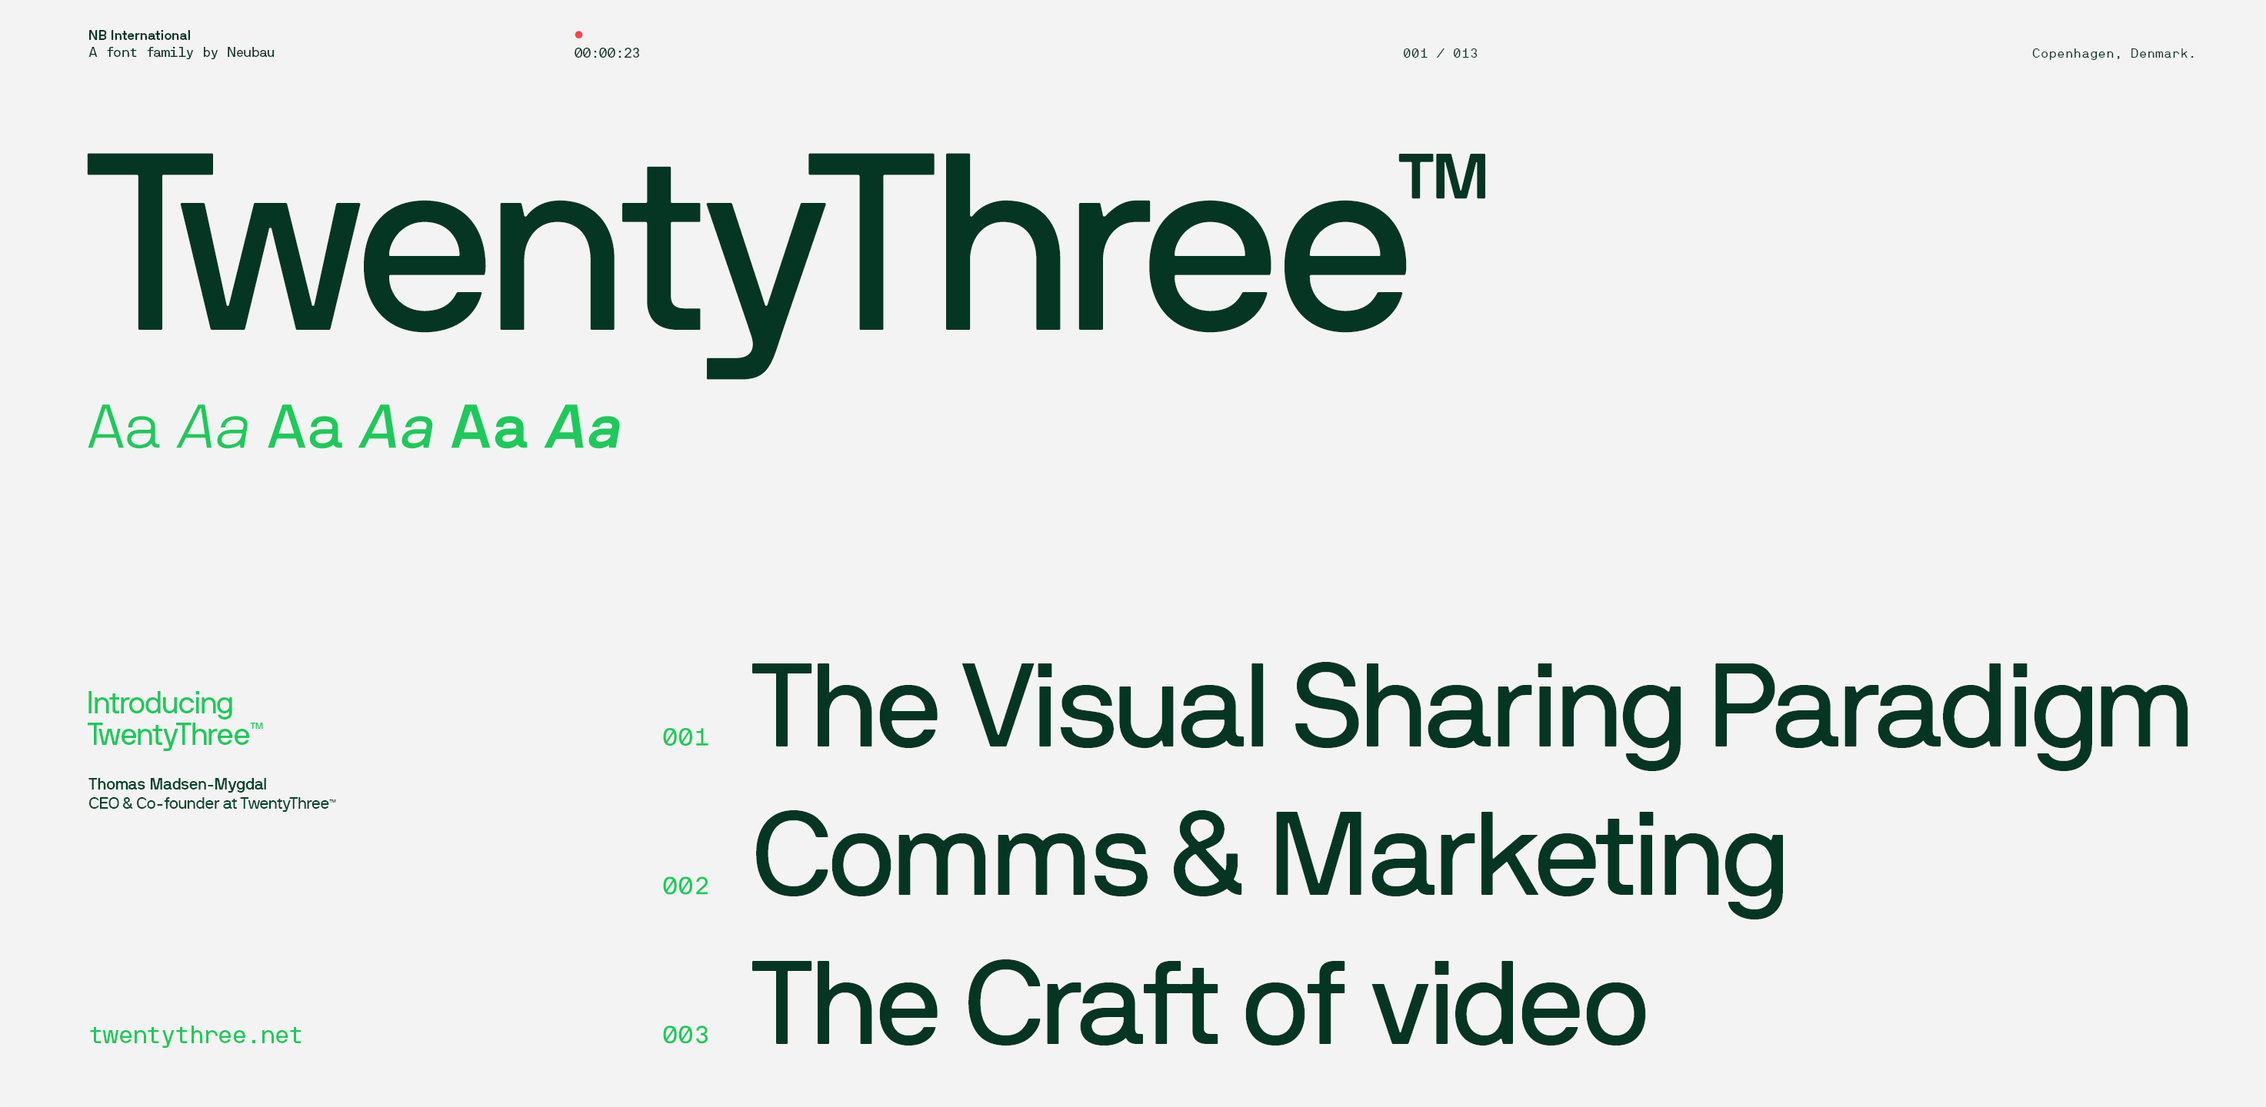
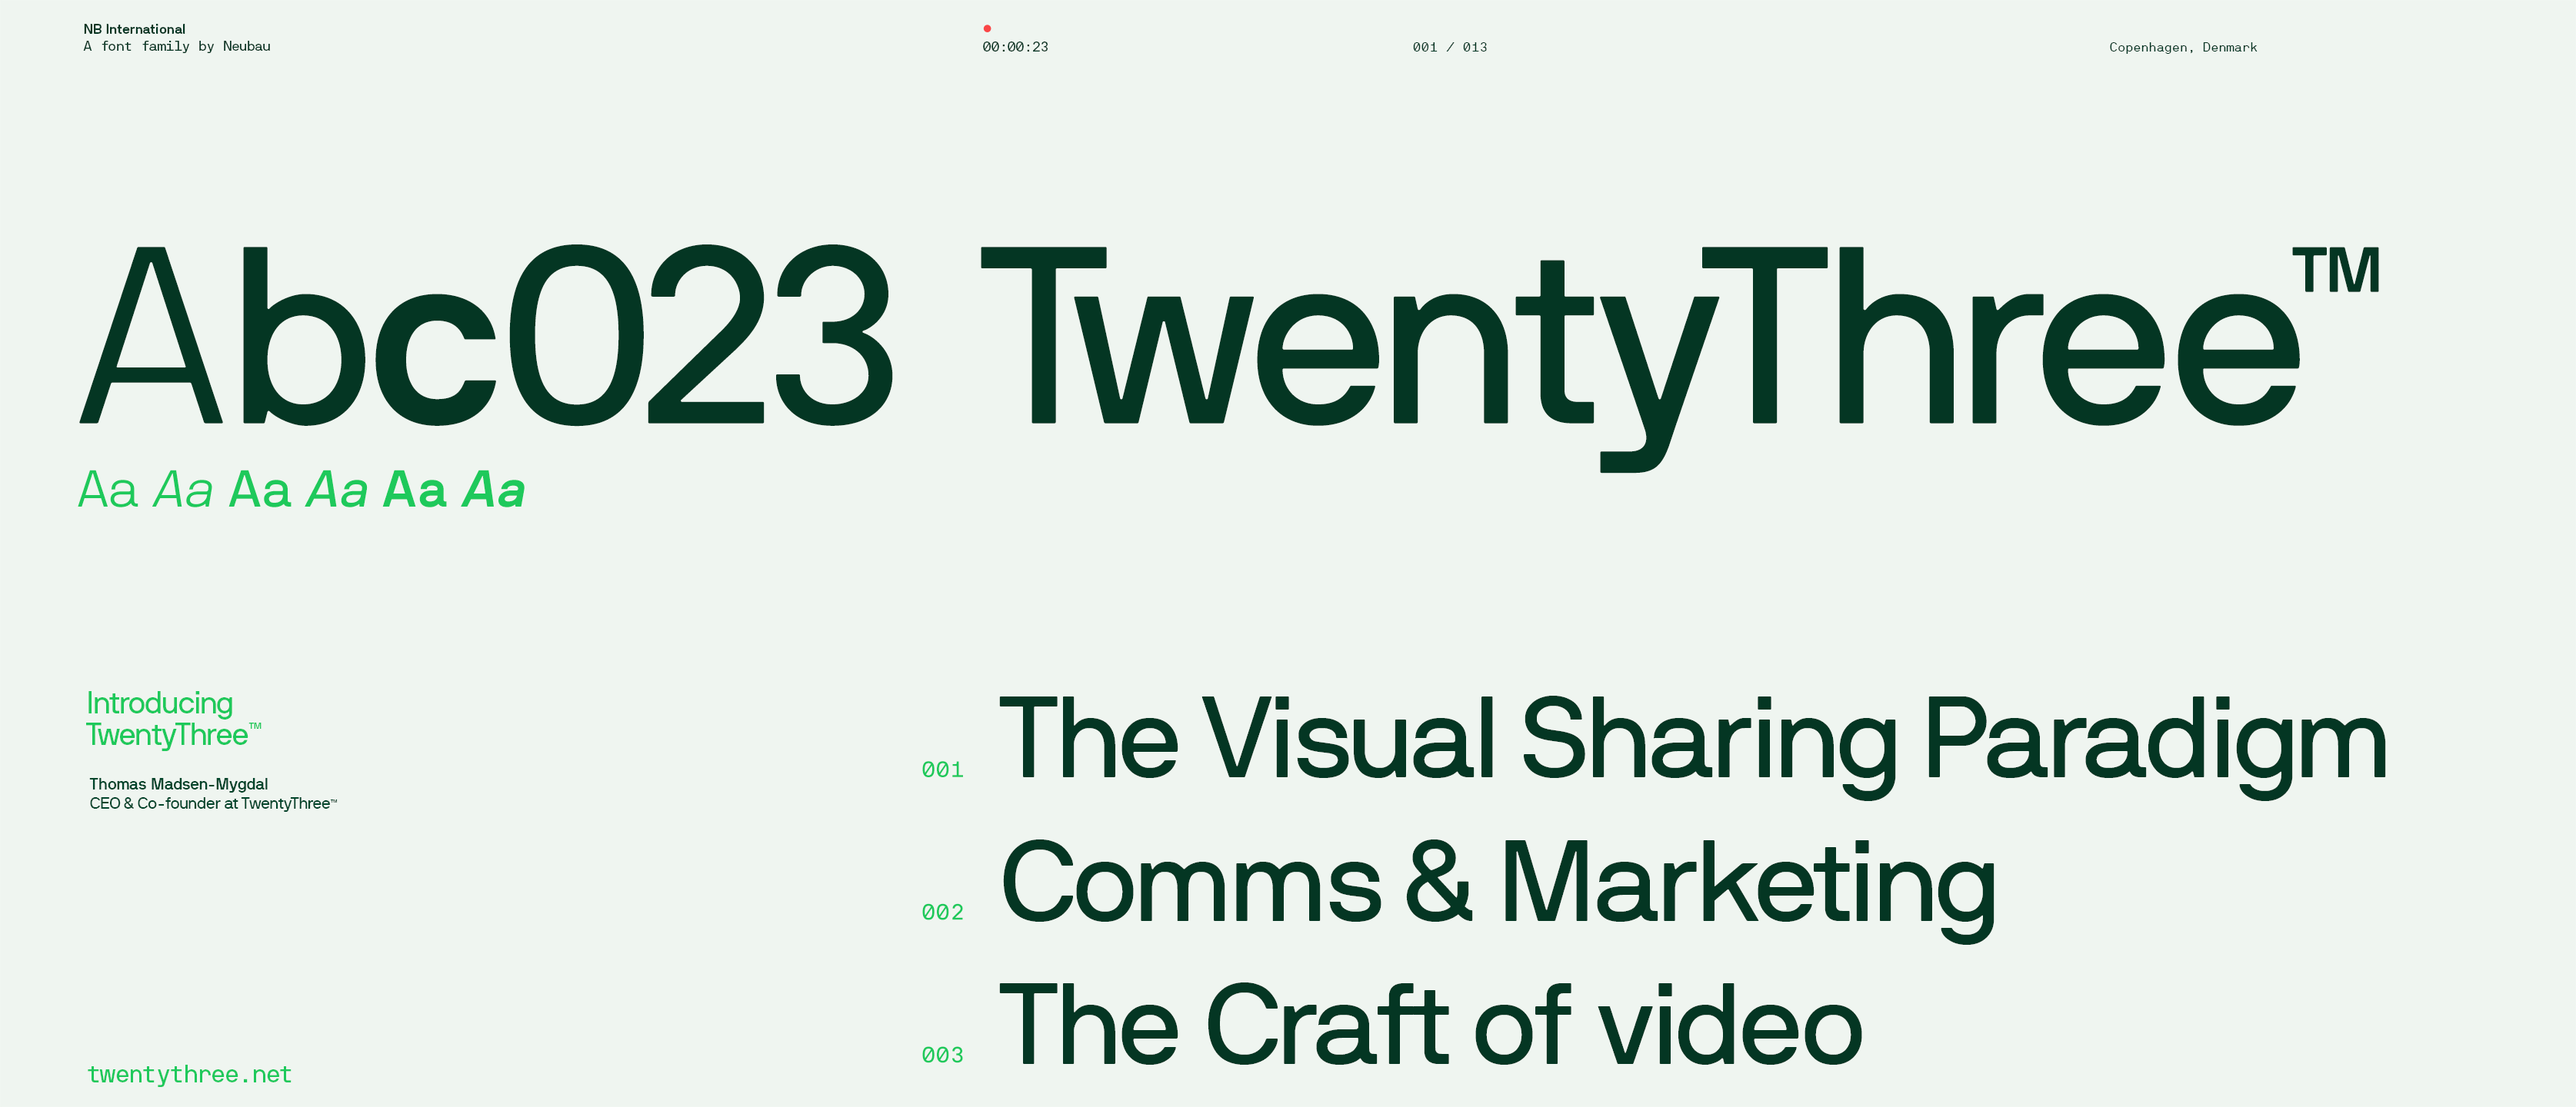
Case updates

diff --git a/clients/Norgram-site/index.html b/clients/Norgram-site/index.html
@@ -190,8 +190,9 @@
 						Aarhus C<br>
 					</div>
 					<div data-name="column">
-						<a href="mailto:hi@norgram.co?Subject=Hi%20Norgram" target="_top">hi@norgram.co</a><br>
-						+0045 5337 7537
+						+0045 5337 7537<br>
+						<a href="mailto:hi@norgram.co?Subject=Hi%20Norgram" target="_top">hi@norgram.co</a>
+						
 					</div>
 					<div data-name="column">
 						For job and Intern<br>
@@ -778,29 +779,33 @@ Our process is defined by collaboration. We work with brands, start-ups, and peo
 							Design<br>
 							Focusing on the concept of the canvas we wanted to create a design system that provided TwentyThree™ with simple tools. We developed a design system inspired by common wayfinding principles. These principles acts as guideance troughout the visual language of typography, colors, iconograpy and grid systems.</div>
 					</div>
-					<div data-name="moduleImage" width="1468" height="1440">assets/images/cases/twentythree/twentythree_02.png</div>
-					<div data-name="moduleText" data-width-scale="0.9" >
+					<div data-name="moduleImage" width="1389" height="1440">assets/images/cases/twentythree/twentythree_02.png</div>
+					<div data-name="moduleText" data-width-scale="0.6">
 						<div data-name="top">
 						The brandmark is created based on the idea of a canvas. A canvas being a frame to facilitate content. The canvas resembles the purpose of the company which is to facilitate visual sharing.
 Technically the TwentyThree™ brandmark using is build using the 16:9 ratio.
 					
 						</div>
 					</div>
-					<div data-name="moduleImage" width="2425" height="1440">assets/images/cases/twentythree/twentythree_03_00.png</div>
-					<div data-name="moduleText" data-width-scale="0.9" >
+					<div data-name="moduleImage" width="2714" height="1440">assets/images/cases/twentythree/twentythree_03.png</div>
+					
+					
+					<div data-name="moduleImage" width="1741" height="1440">assets/images/cases/twentythree/twentythree_03_01.png</div>
+					<div data-name="moduleText" data-width-scale="0.7">
 						<div data-name="top">
-							The primary colors consists of a "Spring" and "Racing" green. These two colors symbolize the balance between innovation and stability.
+							The primary colors consists of a "Spring" and "Racing" green. These two colors symbolize the balance between innovation and stability.<br><br>
+							
+TwentyThree™ uses the typeface—NB Inter-national™. Designed by Stefan Gandl. Published by Neubau in 2008. NB International™ pays tribute to popular Grotesk typefaces of the ‘international style’ era. 
+							
+							
 						</div>
 					</div>
-					
-					<div data-name="moduleImage" width="1231" height="1440">assets/images/cases/twentythree/twentythree_03_01.gif</div>
-					
-					<div data-name="moduleImage" width="2946" height="1440">assets/images/cases/twentythree/twentythree_04.png</div>
+					<div data-name="moduleImage" width="3348" height="1440">assets/images/cases/twentythree/twentythree_04.png</div>
 					
 					<div data-name="moduleImage" width="3726" height="1440">assets/images/cases/twentythree/twentythree_05.png</div>
 					<div data-name="moduleImage" width="1205" height="1440">assets/images/cases/twentythree/twentythree_06.jpg</div>
-					<div data-name="moduleText" data-width-scale="0.9" >
-						<div data-name="top">OB1<br>
+					<div data-name="moduleText" data-width-scale="0.6" >
+						<div data-name="top">Applications<br>
 						The brandmark is created based on the idea of a canvas. A canvas being a frame to facilitate content. The canvas resembles the purpose of the company which is to facilitate visual sharing. 
 
 						</div>
@@ -808,7 +813,7 @@ Technically the TwentyThree™ brandmark using is build using the 16:9 ratio.
 					<div data-name="moduleImage" width="1350" height="1440">assets/images/cases/twentythree/twentythree_07.jpg</div>
 					<div data-name="moduleImage" width="4192" height="1440">assets/images/cases/twentythree/twentythree_08.jpg</div>
 					<div data-name="moduleImage" width="864" height="1080">assets/images/cases/twentythree/twentythree_09.jpg</div>
-					<div data-name="moduleText" data-width-scale="0.9" >
+					<div data-name="moduleText" data-width-scale="0.6" >
 						<div data-name="top">
 						The brandmark is created based on the idea of a canvas. A canvas being a frame to facilitate content. The canvas resembles the purpose of the company which is to facilitate visual sharing. 
 
